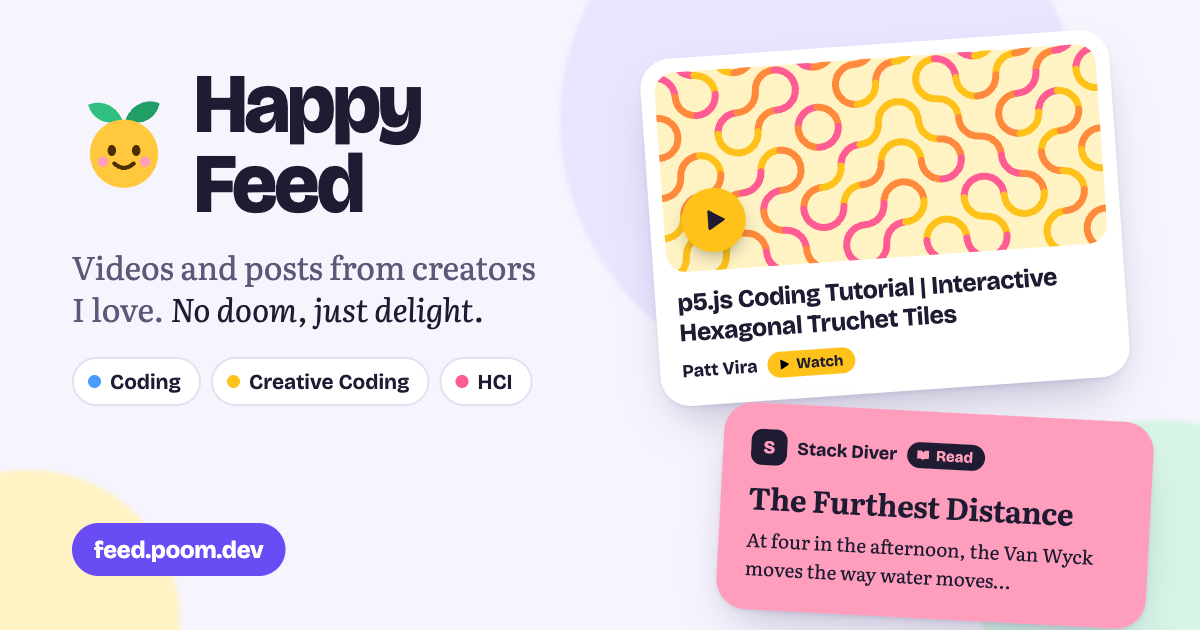
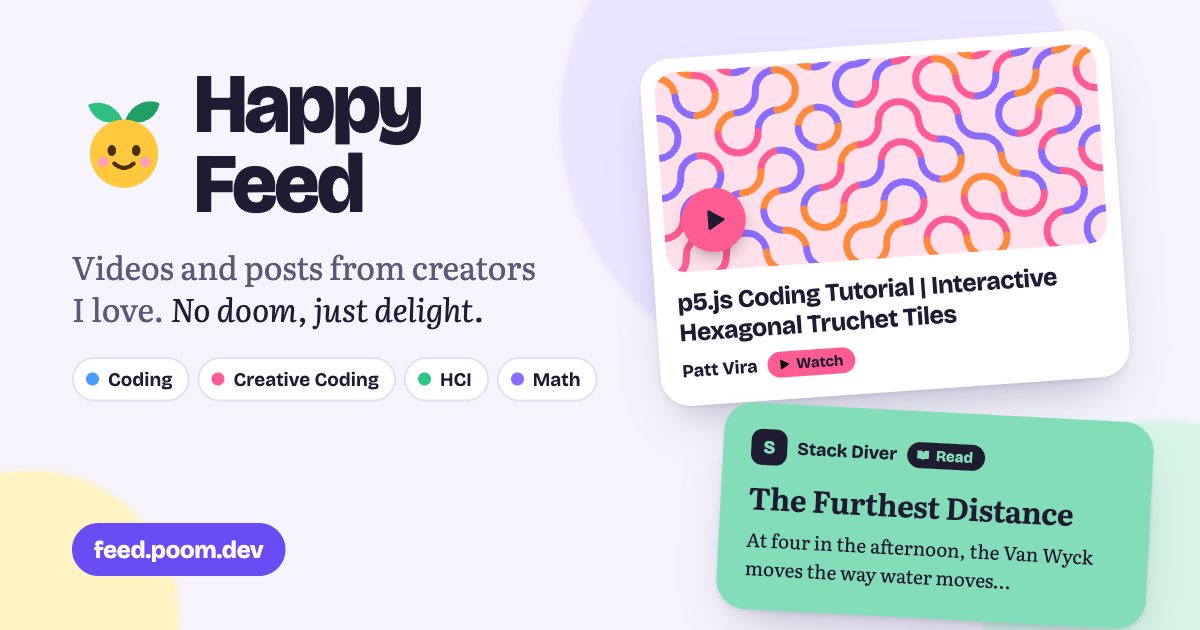
collection: add 3Blue1Brown, carykh, and Grownkid
Claude-Session: https://claude.ai/code/session_01YS57j5gawqbUNam3Wz2NGn

diff --git a/scripts/og/og.html b/scripts/og/og.html
@@ -88,7 +88,7 @@
 
       .chips {
         display: flex;
-        gap: 10px;
+        gap: 8px;
         margin-top: 6px;
       }
 
@@ -96,11 +96,12 @@
         display: inline-flex;
         align-items: center;
         gap: 9px;
-        padding: 10px 18px 10px 14px;
+        padding: 9px 15px 9px 12px;
         border: 2px solid #e4e0f3;
         border-radius: 999px;
         background: #fff;
-        font-size: 21px;
+        white-space: nowrap;
+        font-size: 19px;
         font-weight: 650;
       }
 
@@ -146,7 +147,7 @@
         height: 200px;
         border-radius: 20px;
         overflow: hidden;
-        background: #fff3c4;
+        background: #ffe0eb;
       }
 
       .thumb svg {
@@ -164,7 +165,7 @@
         width: 64px;
         height: 64px;
         border-radius: 50%;
-        background: #ffc21a;
+        background: #ff5c93;
         box-shadow: 0 8px 20px -8px rgb(0 0 0 / 0.5);
       }
 
@@ -244,7 +245,7 @@
       .jewel {
         left: 720px;
         top: 412px;
-        background: #ff9ebc;
+        background: #83ddb8;
         color: var(--ink-on-solid);
         transform: rotate(3deg);
       }
@@ -252,11 +253,11 @@
       .jewel .mono,
       .jewel .pill {
         background: var(--ink-on-solid);
-        color: #ff9ebc;
+        color: #83ddb8;
       }
 
       .jewel .pill svg {
-        fill: #ff9ebc;
+        fill: #83ddb8;
       }
 
     </style>
@@ -284,8 +285,9 @@
         <p class="tagline">Videos and posts from creators I love. <em>No doom, just delight.</em></p>
         <div class="chips">
           <span class="chip"><span class="dot" style="background: #4a9bff"></span>Coding</span>
-          <span class="chip"><span class="dot" style="background: #ffc21a"></span>Creative Coding</span>
-          <span class="chip"><span class="dot" style="background: #ff5c93"></span>HCI</span>
+          <span class="chip"><span class="dot" style="background: #ff5c93"></span>Creative Coding</span>
+          <span class="chip"><span class="dot" style="background: #2fc489"></span>HCI</span>
+          <span class="chip"><span class="dot" style="background: #8a6dff"></span>Math</span>
         </div>
       </div>
 
@@ -299,7 +301,7 @@
         <h2 class="title">p5.js Coding Tutorial | Interactive Hexagonal Truchet Tiles</h2>
         <div class="byline">
           Patt Vira
-          <span class="pill" style="background: #ffc21a"><svg viewBox="0 0 24 24"><path d="M7 4.5v15a1 1 0 0 0 1.5.86l12.5-7.5a1 1 0 0 0 0-1.72L8.5 3.64A1 1 0 0 0 7 4.5Z" /></svg>Watch</span>
+          <span class="pill" style="background: #ff5c93"><svg viewBox="0 0 24 24"><path d="M7 4.5v15a1 1 0 0 0 1.5.86l12.5-7.5a1 1 0 0 0 0-1.72L8.5 3.64A1 1 0 0 0 7 4.5Z" /></svg>Watch</span>
         </div>
       </article>
 
@@ -315,7 +317,7 @@
     <script>
       const svg = document.getElementById("truchet");
       const size = 40;
-      const colors = ["#ffc21a", "#ff8a3d", "#ff5c93"];
+      const colors = ["#ff5c93", "#8a6dff", "#ff8a3d"];
       let seed = 7;
       const rand = () => ((seed = (seed * 16807) % 2147483647) / 2147483647);
       let paths = "";
